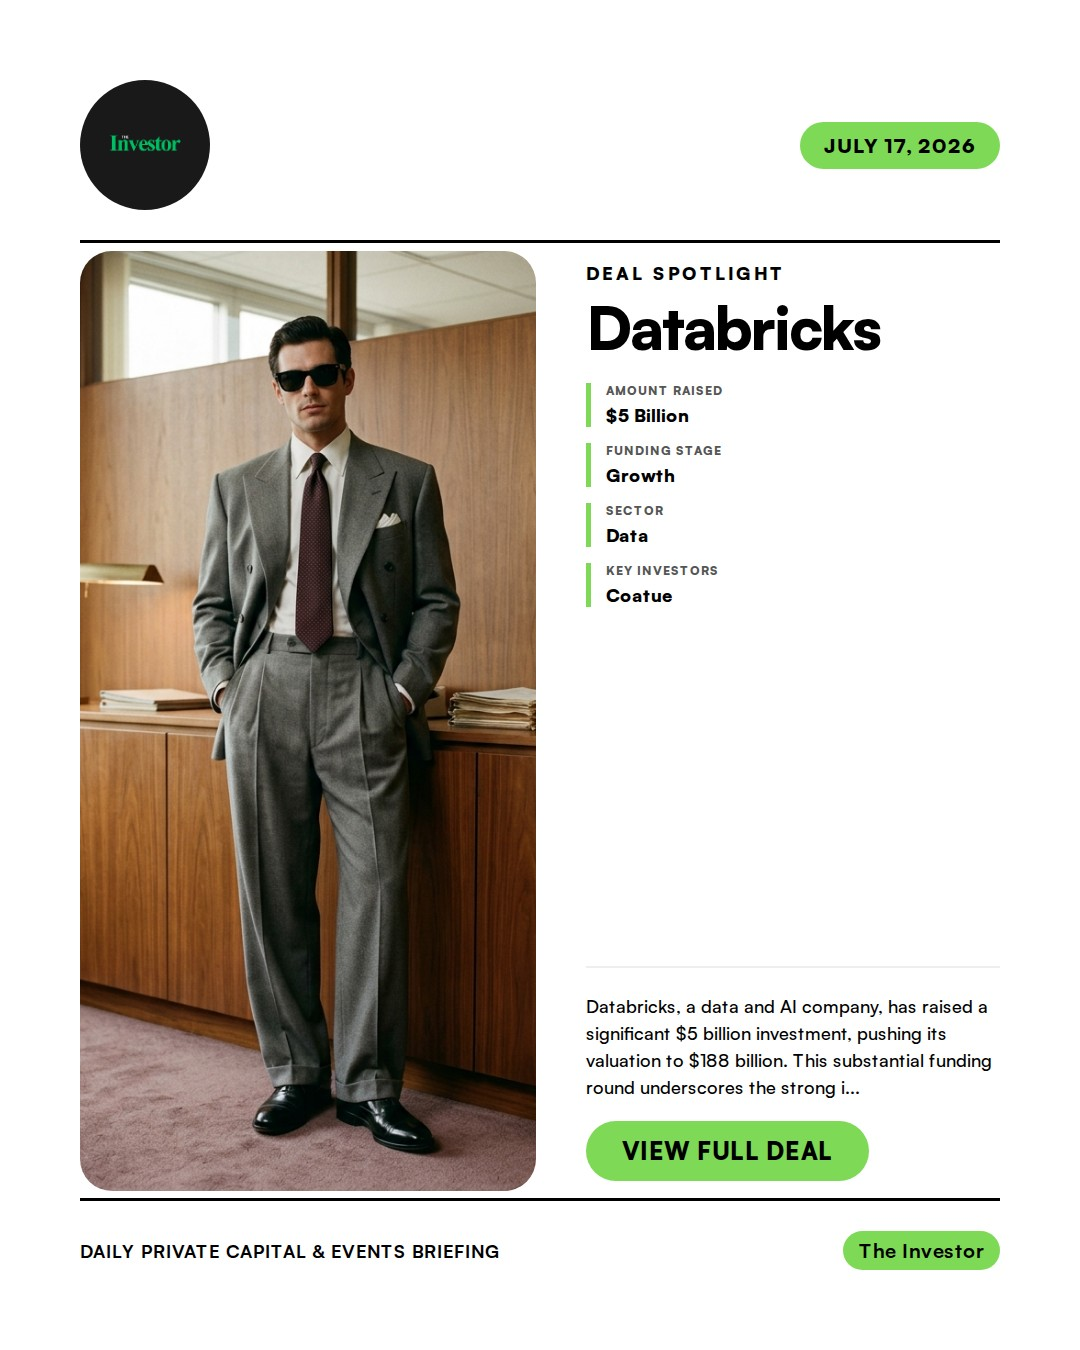
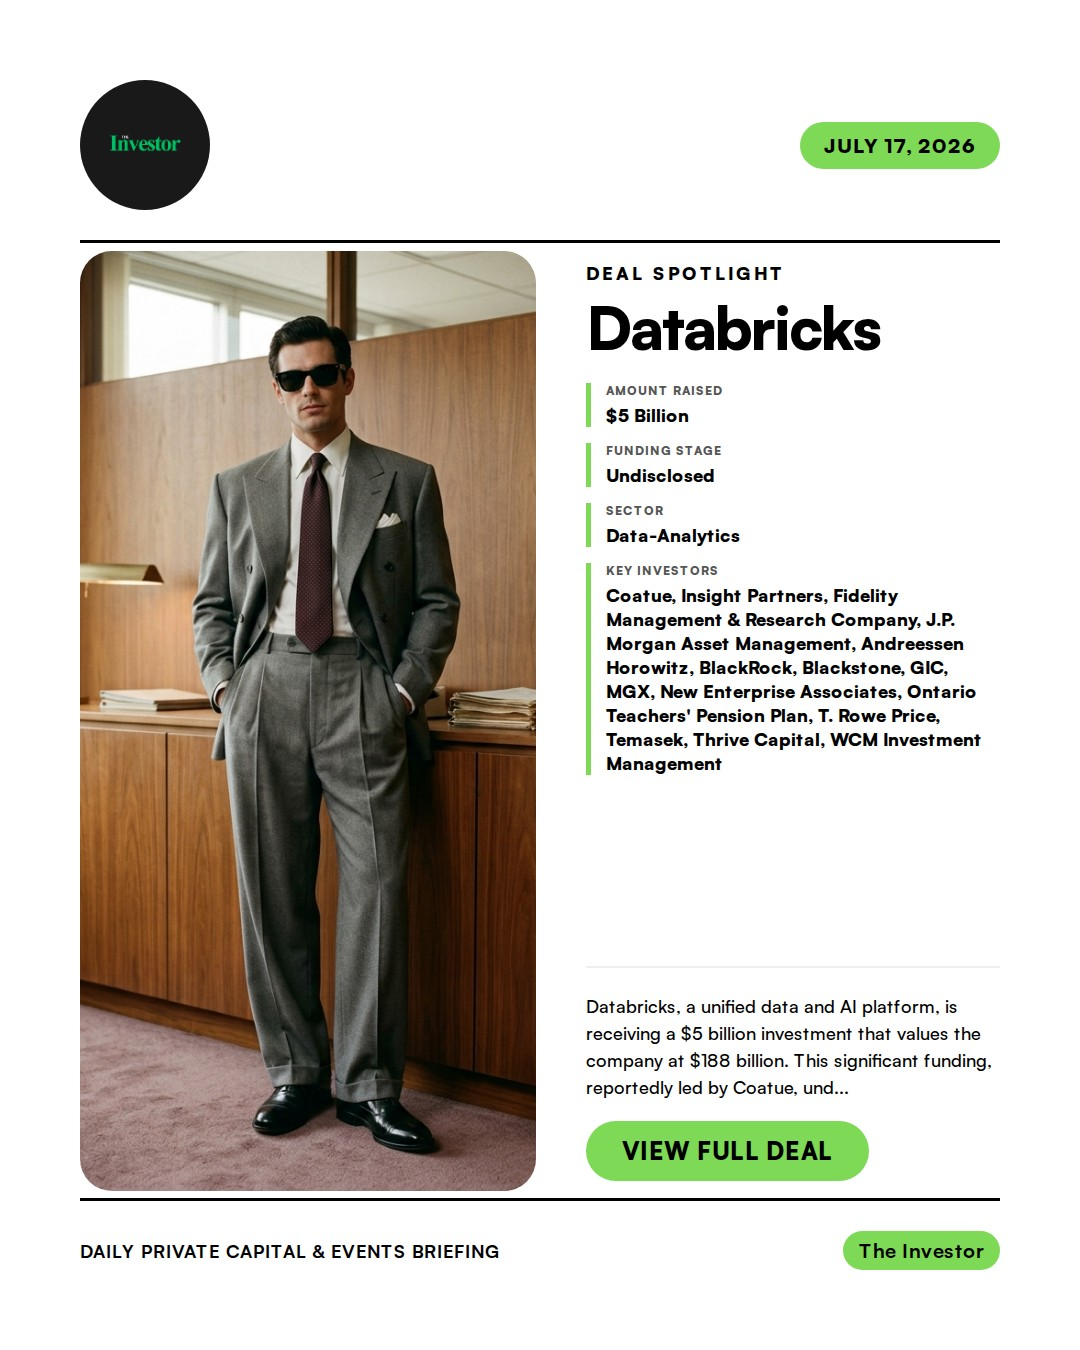
docs: Add daily news report 2026-07-17

Changed region(s): [[0.5194, 0.4356, 0.9167, 0.5911], [0.55, 0.7156, 0.9167, 0.8089], [0.55, 0.3422, 0.6722, 0.4044]]

diff --git a/NewsReport/2026-07-17-news-report.md b/NewsReport/2026-07-17-news-report.md
@@ -1,91 +1,67 @@
 # Daily News Report (2026-07-17)
 
-> Curated from TechCrunch and Hacker News. Contains 7 fundraising deals.
+> Curated from TechCrunch and Hacker News. Contains 5 fundraising deals.
 > Generated automatically via GitHub Actions.
 
 ---
 
-## 1. IM8: $1 Billion from General Catalyst’s Customer Value Fund
+## 1. IM8: $1 Billion from General Catalyst’s unusual CVF fund
 
-- **Summary**: IM8 is David Beckham's health drink startup, known for its longevity vitamin drink. General Catalyst's Customer Value Fund provided $1 billion in funding, specifically noting it's not an equity investment. This substantial funding indicates significant support for the company's growth in the health and wellness sector, backed by a prominent figure.
+- **Summary**: IM8, a health drink startup founded by David Beckham, has received $1 billion from General Catalyst's Customer Value Fund. This fund specifically provides capital without taking equity, focusing on 'longevity vitamin drinks.'
 - **Key Points**:
-  1. Investors: General Catalyst (Customer Value Fund)
-  2. Sector keywords: healthtech, consumer, longevity, celebrity-backed
+  1. Investors: General Catalyst's Customer Value Fund
+  2. Sector keywords: healthtech
 - **Source**: [TechCrunch](https://techcrunch.com/2026/07/14/david-beckhams-health-drink-startup-im8-takes-1b-from-general-catalysts-unusual-cvf-fund/)
-- **Keywords**: `healthtech, consumer, longevity, celebrity-backed`
+- **Keywords**: `healthtech`
 - **Score**: ⭐⭐⭐⭐⭐ (5/5)
 
 ---
 
-## 2. Databricks: $5 Billion with a $188 Billion valuation
+## 2. Databricks: $5B with a $188B valuation
 
-- **Summary**: Databricks, a data and AI company, has raised a significant $5 billion investment, pushing its valuation to $188 billion. This substantial funding round underscores the strong investor confidence in the company's position as a leader in the data analytics and AI market, driving further innovation and expansion.
+- **Summary**: Databricks, a unified data and AI platform, is receiving a $5 billion investment that values the company at $188 billion. This significant funding, reportedly led by Coatue, underscores the continued investor confidence in enterprise data infrastructure and AI.
 - **Key Points**:
-  1. Investors: Coatue
-  2. Sector keywords: data, AI, cloud, enterprise software
+  1. Investors: Coatue, Insight Partners, Fidelity Management & Research Company, J.P. Morgan Asset Management, Andreessen Horowitz, BlackRock, Blackstone, GIC, MGX, New Enterprise Associates, Ontario Teachers' Pension Plan, T. Rowe Price, Temasek, Thrive Capital, WCM Investment Management
+  2. Sector keywords: data-analytics
 - **Source**: [Hacker News](https://www.reuters.com/legal/transactional/databricks-valued-188-billion-after-coatue-led-investment-wsj-reports-2026-07-17/)
-- **Keywords**: `data, AI, cloud, enterprise software`
+- **Keywords**: `data-analytics`
 - **Score**: ⭐⭐⭐⭐⭐ (5/5)
 
 ---
 
 ## 3. Neko Health: $700 Million Series C
 
-- **Summary**: Neko Health has successfully raised $700 million in a Series C funding round. The health technology company, founded by Spotify's Daniel Ek and Hjalmar Nilsonne, offers non-invasive preventive health assessments. This significant funding will support its planned launch in the United States and accelerate research into early disease detection.
+- **Summary**: Neko Health, a Swedish-based health tech company focused on preventive healthcare, has secured $700 million in Series C funding. This investment will support its expansion into the U.S. and further develop its diagnostic technologies.
 - **Key Points**:
-  1. Investors: Lightspeed Venture Partners, O.G. Venture Partners, Atomico, General Catalyst, Lakestar, Liberty City Ventures, Positive Sum, BDT & MSD, Ari Emanuel, Claudia Schiffer, Sir Matthew Vaughn, Danny Meyer, Jimmy Iovine, Maria Sharapova, Mark Zuckerberg and Priscilla Chan, Thierry Henry, Tim Ferriss, will.i.am, Alexis Ohanian (Seven Seven Six), Alex Tew (Calm), Michael Acton-Smith (Calm), Gary Vaynerchuk, Jessie Inchauspé, Katie Haun, Raj Shamani, Steven Bartlett, Zoë Saldaña, Marco Perego-Saldaña
-  2. Sector keywords: healthtech, digital health, AI, preventative health, longevity
+  1. Investors: Lightspeed Venture Partners, O.G. Venture Partners (co-leads), Atomico, General Catalyst, Lakestar, Liberty City Ventures, Positive Sum, BDT & MSD, Ari Emanuel, Sir Matthew Vaughn, Danny Meyer, Jimmy Iovine, Thierry Henry, Tim Ferriss, will.i.am, Claudia Schiffer, Maria Sharapova, Mark Zuckerberg, Priscilla Chan
+  2. Sector keywords: healthtech
 - **Source**: [Hacker News](https://www.nekohealth.com/gb/en/press/neko-health-raises-usd700m-series-c-ahead-of-us-launch)
-- **Keywords**: `healthtech, digital health, AI, preventative health, longevity`
+- **Keywords**: `healthtech`
 - **Score**: ⭐⭐⭐⭐⭐ (5/5)
 
 ---
 
-## 4. Fireworks: $1.505 Billion Series D
+## 4. Fireworks: $1.505 Billion Series D at a $17.5 Billion valuation
 
-- **Summary**: Fireworks, a platform for specialized intelligence, has raised a substantial $1.505 billion in Series D funding, valuing the company at $17.5 billion. This funding round follows the company surpassing $1 billion in annualized revenue run rate, highlighting its rapid growth in providing infrastructure for building and serving custom AI models for enterprises.
+- **Summary**: Fireworks, an AI platform specializing in building and serving custom models, has raised $1.505 billion in Series D funding, valuing the company at $17.5 billion. This round comes as the company surpasses $1 billion in annualized revenue run rate.
 - **Key Points**:
-  1. Investors: Atreides Management, Index Ventures, TCV, Evantic, Lightspeed Venture Partners, NVIDIA, 20VC, Bessemer Venture Partners, Insight Partners, Lone Pine Capital, Menlo Ventures, Ontario Teachers' Pension Plan
-  2. Sector keywords: AI, enterprise software, machine learning, cloud infrastructure
+  1. Investors: Atreides Management, Index Ventures, TCV (leads), Evantic Capital, Lightspeed Venture Partners, Nvidia, 20VC, Bessemer Venture Partners, Menlo Ventures, Insight Partners, Lone Pine Capital, Ontario Teachers' Pension Plan
+  2. Sector keywords: AI
 - **Source**: [Hacker News](https://fireworks.ai/blog/series-d-announcement)
-- **Keywords**: `AI, enterprise software, machine learning, cloud infrastructure`
+- **Keywords**: `AI`
 - **Score**: ⭐⭐⭐⭐⭐ (5/5)
 
 ---
 
-## 5. DeepSeek: $7 Billion funding round at a $52 Billion valuation
+## 5. Fora: $60 Million Series D
 
-- **Summary**: DeepSeek, a Chinese artificial intelligence company, completed its first-ever external funding round, raising approximately $7 billion at a $52 billion valuation. This significant investment, with contributions from its founder Liang Wenfeng, Tencent, and CATL, solidifies DeepSeek's position as a major player in the global AI landscape, particularly in the development of advanced AI models.
-- **Key Points**:
-  1. Investors: Liang Wenfeng, Tencent, CATL
-  2. Sector keywords: AI, large language models, China, enterprise AI
-- **Source**: [Hacker News](https://www.reuters.com/world/asia-pacific/chinese-filing-implies-deepseek-valuation-around-52-billion-2026-07-16/)
-- **Keywords**: `AI, large language models, China, enterprise AI`
-- **Score**: ⭐⭐⭐⭐⭐ (5/5)
-
----
-
-## 6. Fora: $60 Million Series D
-
-- **Summary**: Fora is an AI-powered travel agency that has achieved unicorn status with this funding round, valuing the company at $1 billion. This significant investment highlights the growing market for AI-driven solutions in the travel sector, offering personalized and efficient travel planning services.
+- **Summary**: Fora, an AI-powered travel agency, has achieved unicorn status with a $60 million Series D funding round, valuing the company at $1 billion. The company uses AI to enhance travel planning and agency services.
 - **Key Points**:
   1. Investors: Forerunner, Tactile Ventures
-  2. Sector keywords: traveltech, AI, marketplace, unicorn
+  2. Sector keywords: travel-tech
 - **Source**: [TechCrunch](https://techcrunch.com/2026/07/16/ai-powered-travel-agency-fora-hits-unicorn-status-raises-60m/)
-- **Keywords**: `traveltech, AI, marketplace, unicorn`
+- **Keywords**: `travel-tech`
 - **Score**: ⭐⭐⭐⭐ (4/5)
-
----
-
-## 7. Traceforce: Undisclosed Seed (YC S26)
-
-- **Summary**: Traceforce, a YC S26 startup, focuses on providing company-wide security monitoring for AI applications. This 'Launch HN' indicates the public introduction of their solution designed to give businesses visibility and control over AI tools used by employees, addressing growing security concerns in AI adoption.
-- **Key Points**:
-  1. Investors: Y Combinator
-  2. Sector keywords: AI, cybersecurity, enterprise software, SaaS
-- **Source**: [Hacker News](https://news.ycombinator.com/item?id=48937020)
-- **Keywords**: `AI, cybersecurity, enterprise software, SaaS`
-- **Score**: ⭐⭐ (2/5)
 
 ---
 
